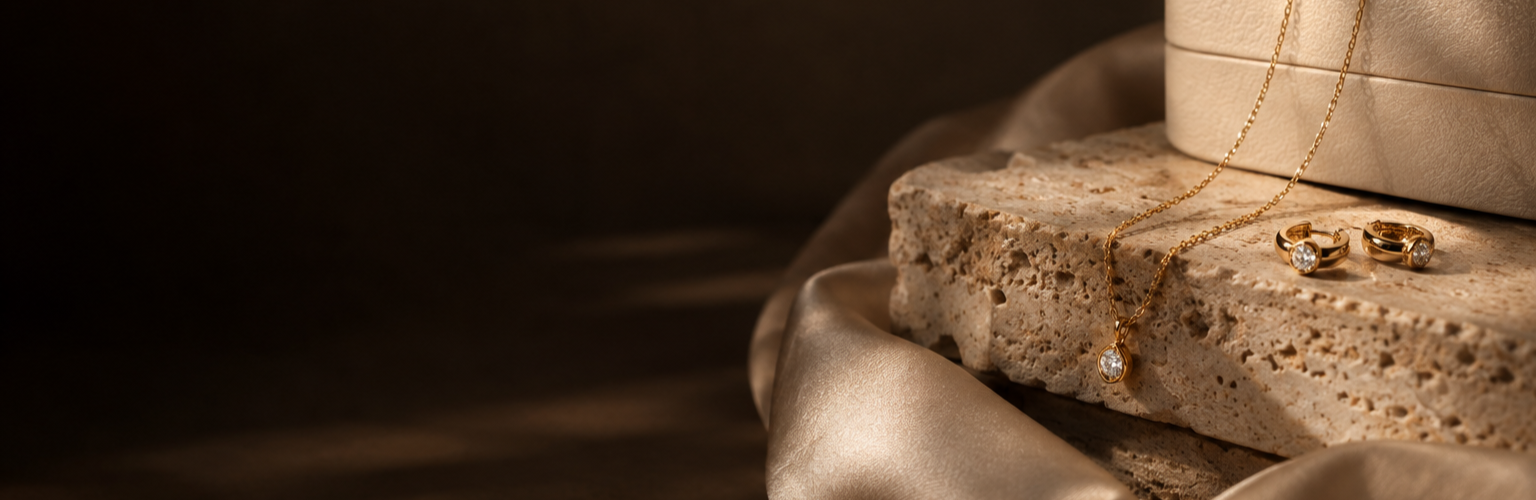
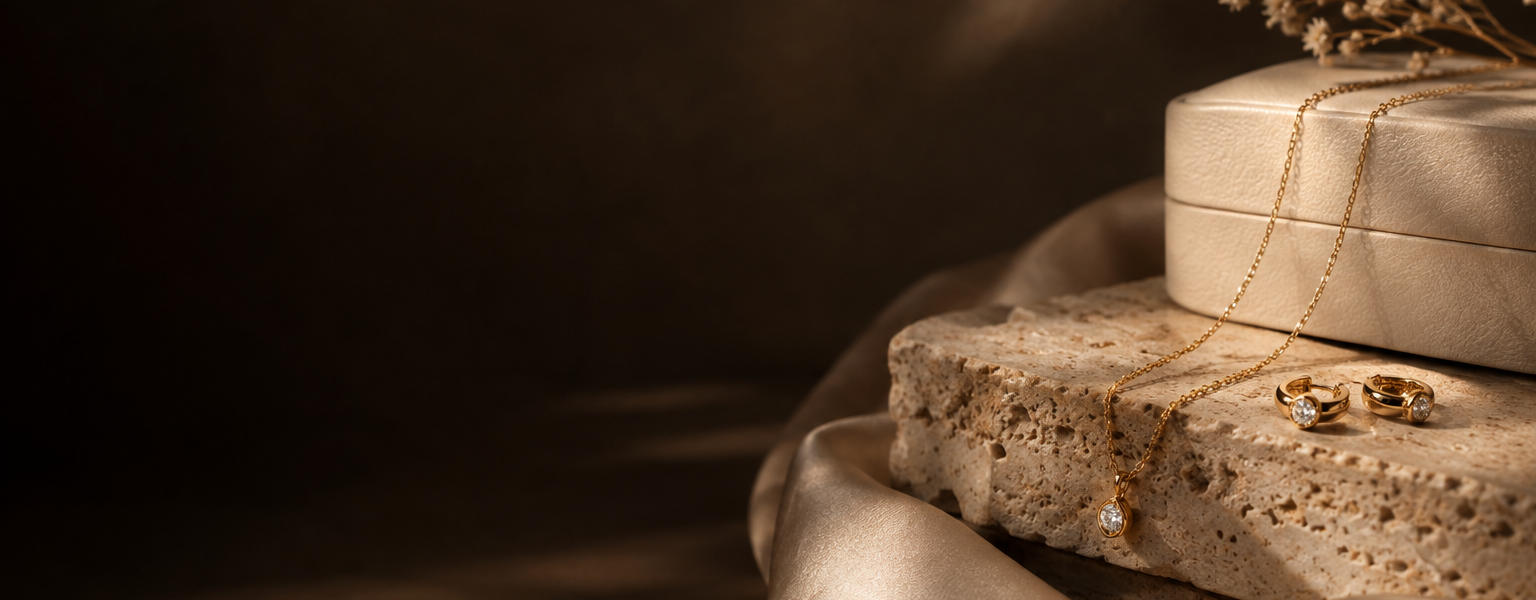
Se crea try catch en el handlesubmit para el envio del correo, se instala la libreria emailjs y se crea codigo para envio de correo

diff --git a/src/components/Form.tsx b/src/components/Form.tsx
@@ -1,17 +1,17 @@
 import { useState } from "react"
-import { usePerson } from "../hooks/usePerson"
+import emailjs from "@emailjs/browser"
 import type { Person } from "../types"
-import {motion} from 'motion/react'
+import { motion } from 'motion/react'
 
 
 const initialState = {
     name: '',
-    whatsapp: ''
+    whatsapp: '',
+    email: ''
 }
 
 export default function Form() {
 
-    const { dispatch } = usePerson()
 
     const [person, setPerson] = useState<Person>(initialState)
 
@@ -23,22 +23,41 @@ export default function Form() {
     }
 
 
-    const handleSubmit = (e: React.SubmitEvent<HTMLFormElement>) => {
+    const handleSubmit = async (e: React.SubmitEvent<HTMLFormElement>) => {
         e.preventDefault()
-        dispatch({ type: 'add-person', payload: { person } })
 
+        try {
+            await emailjs.send(
+                "service_4dgxwvu",
+                "template_eorg9me",
+                {
+                    name: person.name,
+                    whatsapp: person.whatsapp,
+                    email: person.email
+                },
 
-        setPerson(initialState)
+                {
+                    publicKey: "OHeQh1SD3dZrqJE1g"
+                }
+
+            );
+
+            setPerson(initialState)
+            alert("¡Mensaje enviado correctamente!");
+        } catch (error) {
+            console.error("Error al enviar el correo:", error);
+            alert("No fue posible enviar el mensaje. Inténtalo nuevamente.");
+        }
     }
 
     return (
         <div className="w-[90%] max-w-7xl xl:max-w-[90%] mx-auto lg:absolute lg:inset-0 flex flex-col lg:justify-center items-center lg:items-start">
 
             <motion.form
-                initial={{opacity:0, scale:0}}
-                whileInView={{opacity:1, scale:1}}
-                viewport={{once: true}}
-                transition={{duration: 1}}
+                initial={{ opacity: 0, scale: 0 }}
+                whileInView={{ opacity: 1, scale: 1 }}
+                viewport={{ once: true }}
+                transition={{ duration: 1 }}
                 className="w-full lg:w-[40%] p-5 border border-white space-y-5"
                 onSubmit={handleSubmit}
             >
@@ -69,6 +88,19 @@ export default function Form() {
                         name="whatsapp"
                         id="whatsapp"
                         value={person.whatsapp}
+                        onChange={handleChange}
+                    />
+                </div>
+
+                <div className="flex flex-col gap-2">
+                    <label className="font-semibold text-white text-lg" htmlFor="email">Correo :</label>
+                    <input
+                        type="email"
+                        className="w-full p-2 border border-white rounded-lg text-white"
+                        placeholder="Tu whatsapp"
+                        name="email"
+                        id="email"
+                        value={person.email}
                         onChange={handleChange}
                     />
                 </div>

diff --git a/src/main.tsx b/src/main.tsx
@@ -2,12 +2,10 @@ import { StrictMode } from 'react'
 import { createRoot } from 'react-dom/client'
 import './index.css'
 import App from './App.tsx'
-import { PersonProvider } from './context/PersonContext.tsx'
+
 
 createRoot(document.getElementById('root')!).render(
   <StrictMode>
-    <PersonProvider>
-      <App />
-    </PersonProvider>
+      <App />   
   </StrictMode>,
 )

diff --git a/src/types/index.ts b/src/types/index.ts
@@ -14,4 +14,5 @@ export type Favorito ={
 export type Person={
     name: string
     whatsapp: string
+    email: string
 }
